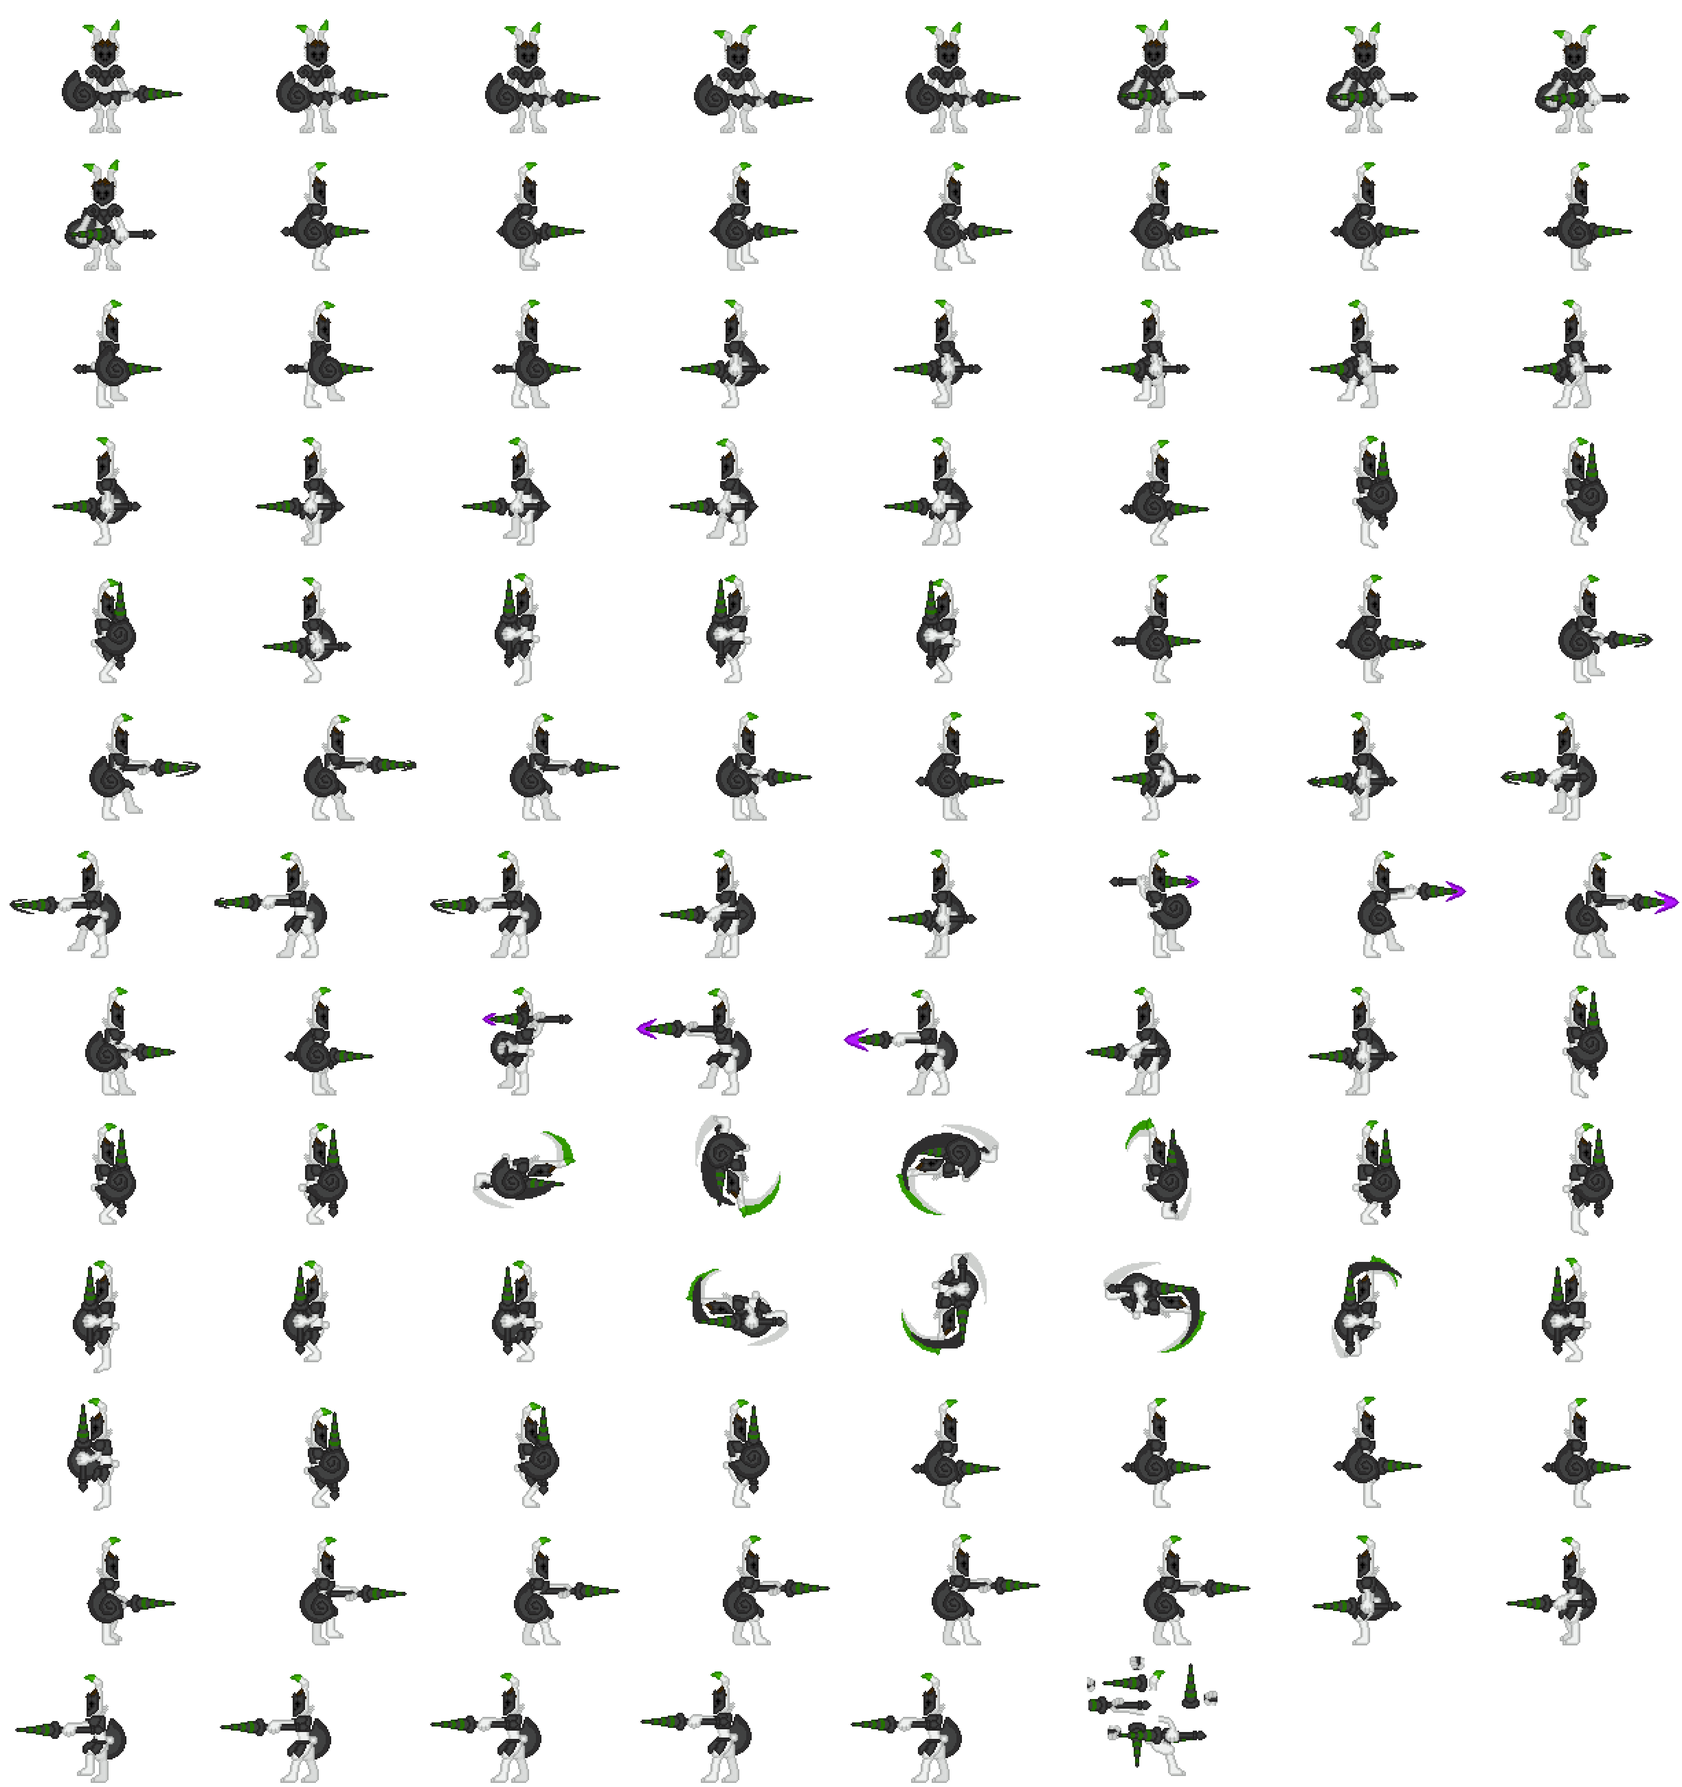
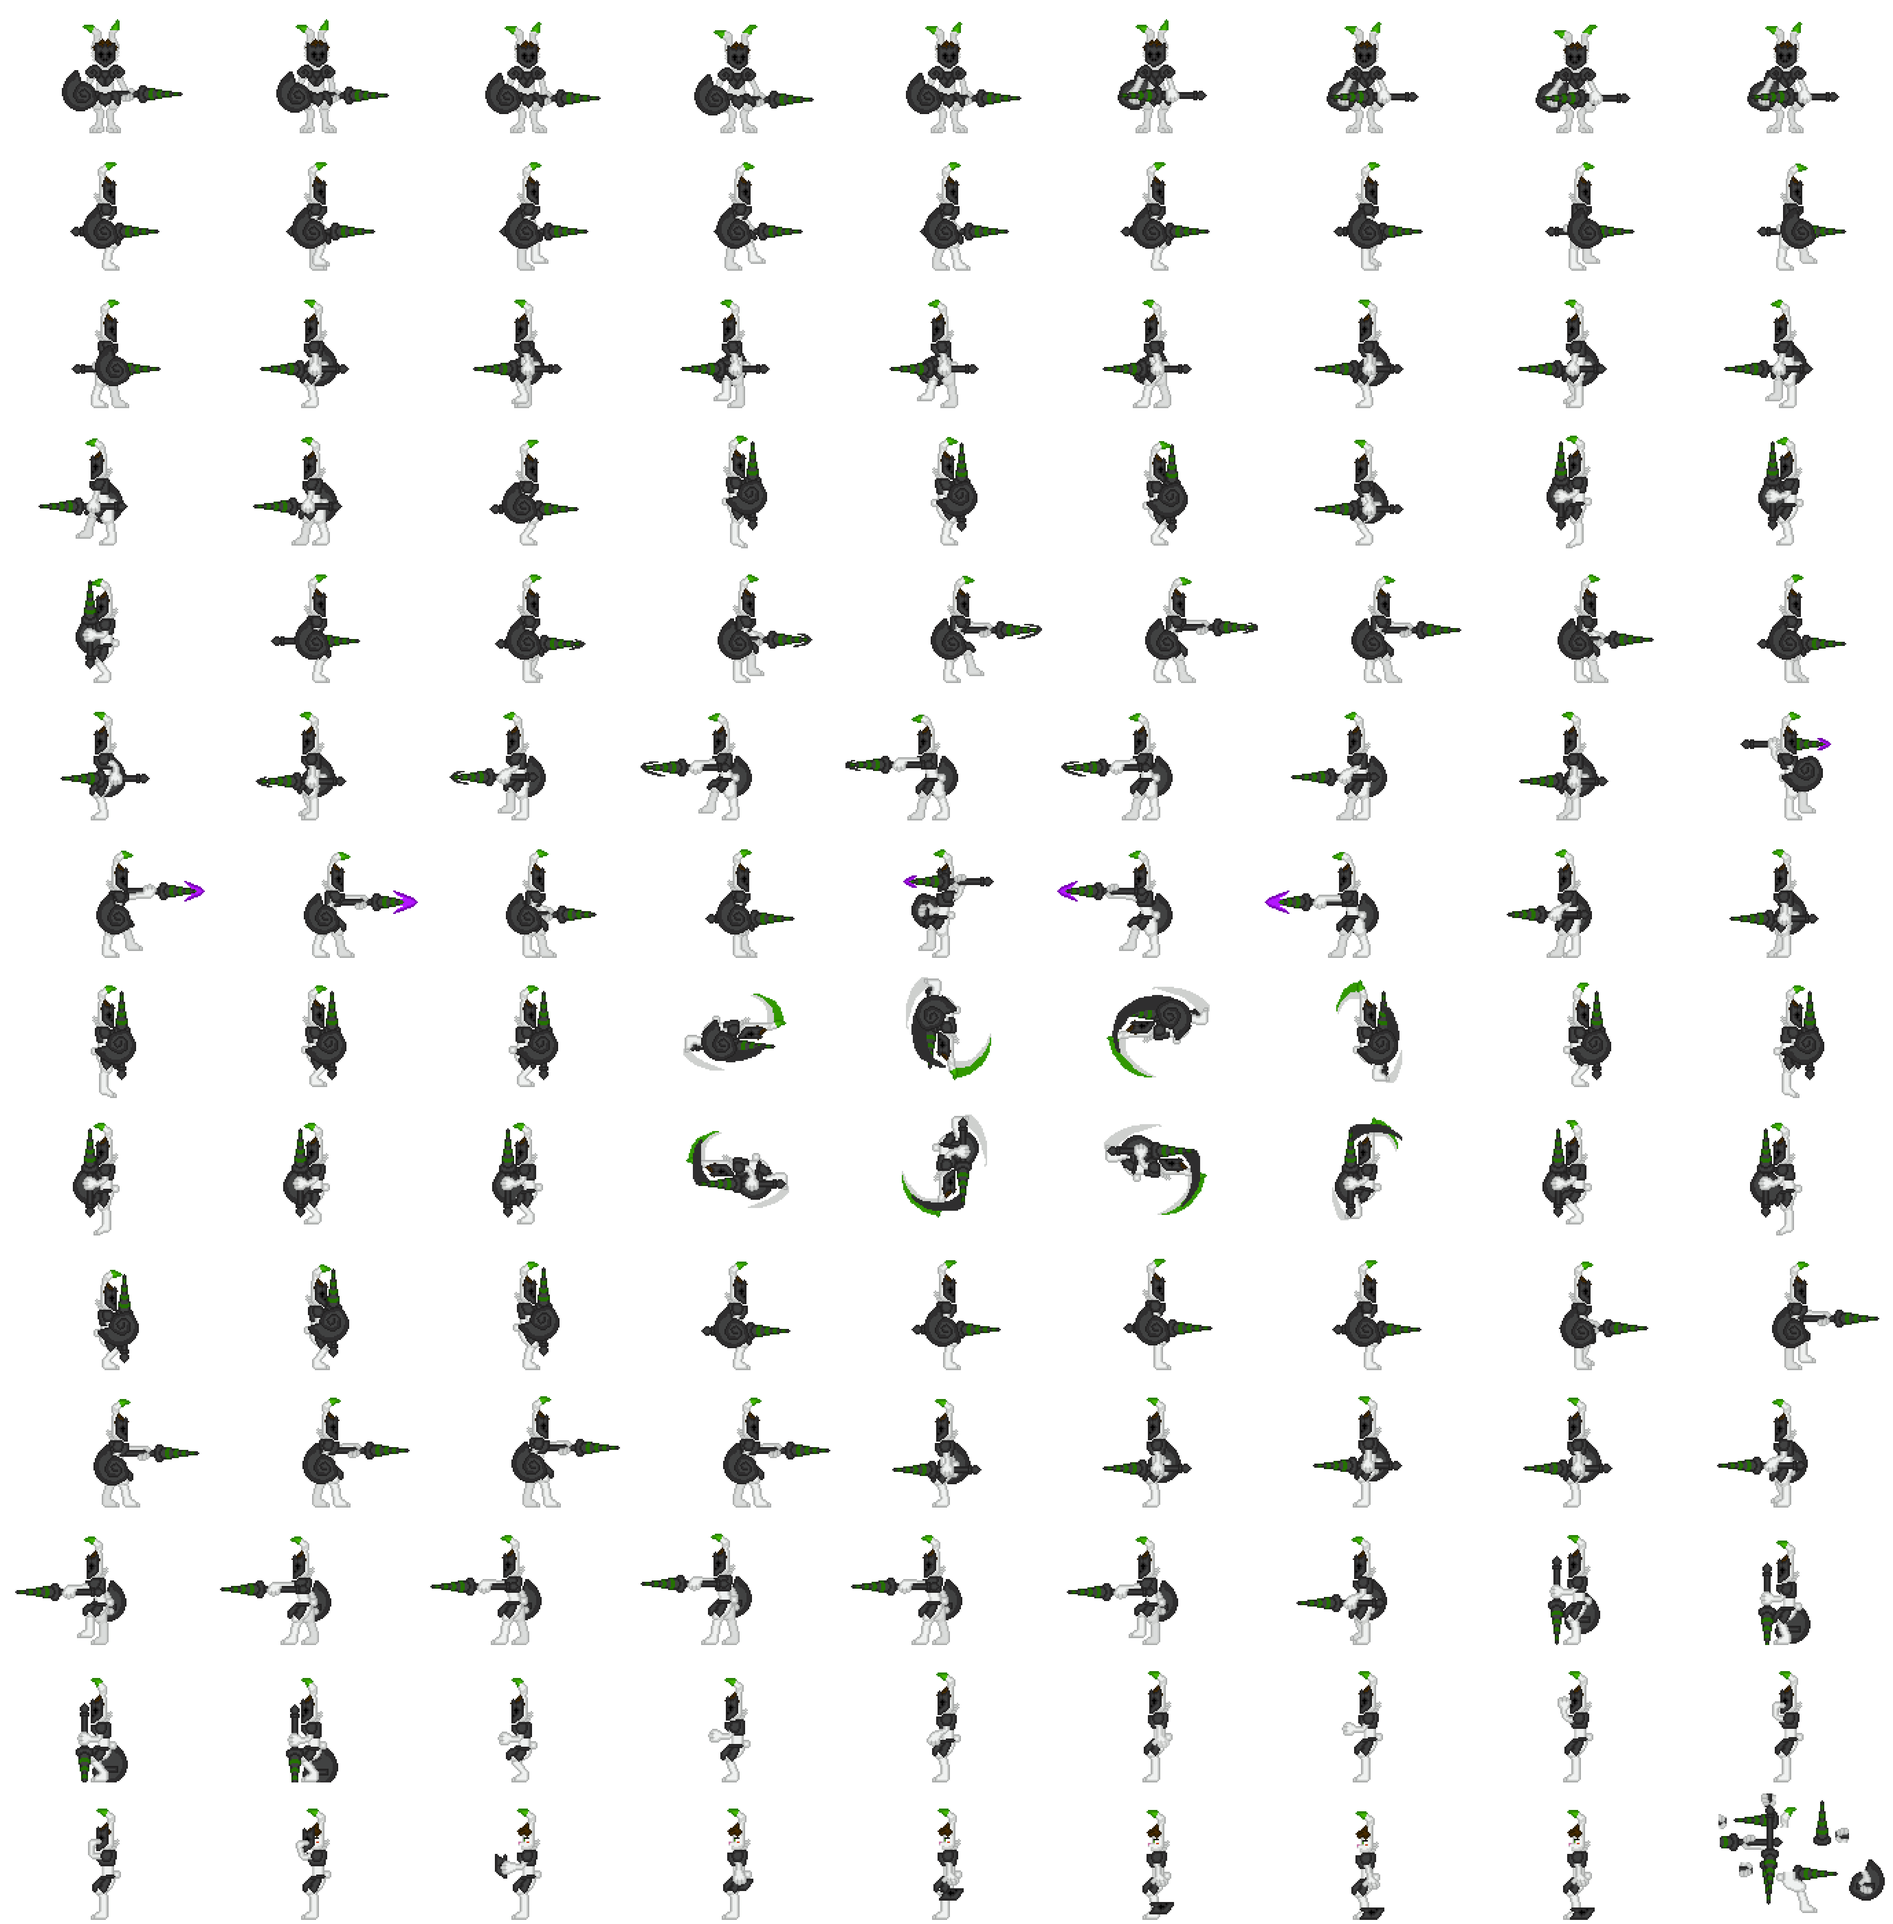
saving progress on nectar cutscene

diff --git a/scripts/npcScripts/nectar.js b/scripts/npcScripts/nectar.js
@@ -580,7 +580,7 @@ class nectar extends npc{
 
    }else if(this.moveNectarOffScreen === false){
     
-    if(this.x < 2700){
+    if(this.x < 3300){
 
       this.setVelocityX(200);
       this.anims.play('sideWalk',true);
@@ -588,12 +588,46 @@ class nectar extends npc{
 
        this.setVelocityX(0);
       this.moveNectarOffScreen = true;
-      this.scene.sceneTextBox.textInterupt = true;
       this.miloRemoveMask = false;
     }
     
    }else if(this.miloRemoveMask === false){
-    this.scene.Milo.anims.play('angleIdleLeft',true);
+
+    this.miloRemoveMask = true;
+    this.scene.Milo.anims.play('MenacingSpearLowerRight').once('animationcomplete', () => {
+
+      this.scene.Milo.anims.play('dropSpearAndShield').once('animationcomplete', () => {
+
+
+        this.spear = this.scene.add.sprite(this.scene.Milo.x-13,this.scene.Milo.y+19, "miloProps");
+        this.spear.anims.create({ key: 'idle', frames: this.anims.generateFrameNames('miloProps', { start: 0, end: 0 }), frameRate: 7, repeat: -1 });
+        this.spear.anims.play("idle", true);
+        this.spear.setScale(1/3);
+        this.spear.setDepth(1);
+
+        this.shield = this.scene.add.sprite(this.scene.Milo.x+3,this.scene.Milo.y+19, "miloProps");
+        this.shield.anims.create({ key: 'idle', frames: this.anims.generateFrameNames('miloProps', { start: 1, end: 1 }), frameRate: 7, repeat: -1 });
+        this.shield.anims.play("idle", true);
+        this.shield.setScale(1/3);
+        this.shield.setDepth(1);
+         
+        this.scene.Milo.setDepth(7);
+
+        this.scene.Milo.anims.play('dropMask').once('animationcomplete', () => {
+
+          this.miloMask = this.scene.add.sprite(this.scene.Milo.x,this.scene.Milo.y, "miloProps");
+          this.miloMask = this.miloMask.anims.create({key: 'mask',frames: this.anims.generateFrameNames('miloProps', { start: 2, end: 2 }),frameRate: 1,repeat: 0});
+          this.miloMask.anims.play("shield");
+          this.miloMask.setScale(1/3);
+          this.miloMask.setDepth(5); 
+
+          this.scene.Milo.anims.play('dropMaskEnd',true);
+        });
+      });
+  });
+
+    
+   
    }
   }
   //overwrites base npc classes function with flagging logic specific to nectar.
@@ -1304,6 +1338,7 @@ class nectar extends npc{
                    this.scene.sceneTextBox.textInterupt = true;
 
                   this.playerCloths = this.scene.add.sprite(this.x+60,this.y+89, "playerClothsProp");
+                  this.playerCloths.flipX = true;
                   this.playerCloths.setScale(1/3);
                   this.playerCloths.setDepth(5);
 
@@ -1339,7 +1374,7 @@ class nectar extends npc{
             
               this.scene.moveFunctionActive = true;
               this.moveNectarOffScreen = false;
-              this.scene.sceneTextBox.textInterupt = false;
+              this.scene.sceneTextBox.textInterupt = true;
 
               this.scene.mycamera.startFollow(this.playerCloths);
               this.scene.cameras.main.zoom = 2;

diff --git a/scripts/npcScripts/milo.js b/scripts/npcScripts/milo.js
@@ -32,8 +32,13 @@ class milo extends npc{
       this.anims.create({key: 'MenacingSpearRaise',frames: this.anims.generateFrameNames('miloMaskedAndArmed', { start: 88, end: 89 }),frameRate: 5,repeat: 0});
       this.anims.create({key: 'MenacingSpearHold',frames: this.anims.generateFrameNames('miloMaskedAndArmed', { start: 90, end: 93 }),frameRate: 7,repeat: -1});
       
-      this.anims.create({key: 'MenacingSpearRaiseRight',frames: this.anims.generateFrameNames('miloMaskedAndArmed', { start: 94, end: 96 }),frameRate: 5,repeat: 0});
-      this.anims.create({key: 'MenacingSpearHoldRight',frames: this.anims.generateFrameNames('miloMaskedAndArmed', { start: 97, end: 100 }),frameRate: 7,repeat: -1});
+      this.anims.create({key: 'standThereRight',frames: this.anims.generateFrameNames('miloMaskedAndArmed', { start: 94, end: 97 }),frameRate: 7,repeat: -1});
+      this.anims.create({key: 'MenacingSpearRaiseRight',frames: this.anims.generateFrameNames('miloMaskedAndArmed', { start: 98, end: 99 }),frameRate: 5,repeat: 0});
+      this.anims.create({key: 'MenacingSpearHoldRight',frames: this.anims.generateFrameNames('miloMaskedAndArmed', { start: 100, end: 103 }),frameRate: 7,repeat: -1});
+      this.anims.create({key: 'MenacingSpearLowerRight',frames: this.anims.generateFrameNames('miloMaskedAndArmed', { start: 104, end: 105 }),frameRate: 5,repeat: 0});
+      this.anims.create({key: 'dropSpearAndShield',frames: this.anims.generateFrameNames('miloMaskedAndArmed', { start: 106, end: 109 }),frameRate: 5,repeat: 0});
+      this.anims.create({key: 'dropMask',frames: this.anims.generateFrameNames('miloMaskedAndArmed', { start: 110, end: 123 }),frameRate: 5,repeat: 0});
+      this.anims.create({key: 'dropMaskEnd',frames: this.anims.generateFrameNames('miloMaskedAndArmed', { start: 124, end: 124 }),frameRate: 5,repeat: 0});
       
       //makes a key promptsa object to be displayed to the user
        this.npcKeyPrompts = new keyPrompts(scene, xPos, yPos + 60,'keyPrompts');

diff --git a/scripts/levelScripts/lockwoodLevels/LockwoodBridges.js b/scripts/levelScripts/lockwoodLevels/LockwoodBridges.js
@@ -55,6 +55,10 @@ class LockwoodBridges extends defaultScene {
       this.load.spritesheet("milo" , "assets/npcs/milo.png" , {frameWidth: 429 , frameHeight: 300 });
       this.load.spritesheet("miloMaskedAndArmed" , "assets/npcs/miloMaskedAndArmed.png" , {frameWidth: 459 , frameHeight: 300 });
       this.load.spritesheet("miloEmots" , "assets/hudElements/miloEmots.png" , {frameWidth: 111 , frameHeight: 117 });
+
+      this.load.spritesheet('miloProps', 'assets/gameObjects/miloProps.png',{frameWidth: 78 , frameHeight: 171});
+
+
       this.load.spritesheet("nectarEmots" , "assets/hudElements/nectarEmots.png" , {frameWidth: 171 , frameHeight: 147 });
 
       //note nectars sprites are loaded in g6enemypreload.
@@ -160,7 +164,7 @@ class LockwoodBridges extends defaultScene {
       //define barriers whee enemys cannot go.
       this.setUpEnemyBarriers();
       this.initBarrier(1716,728-30,38,540);
-      this.initBarrier(2641,728-30,38,540);
+      this.initBarrier(2600,728-30,38,540);
 
       //this sets up the text box which will be used by the signs to display text.
       this.setUpTextBox();

diff --git a/scripts/enemyScripts/bosses/nectarBoss.js b/scripts/enemyScripts/bosses/nectarBoss.js
@@ -187,7 +187,7 @@ class nectarBoss extends enemy {
             //set up player barries for the fight
             this.scene.setUpPlayerBarriers();
             this.leftBarrier = this.scene.initPlayerBarrier(1716,728-30,38,540);
-            this.rightBarrier = this.scene.initPlayerBarrier(2641,728-30,38,540);
+            this.rightBarrier = this.scene.initPlayerBarrier(2600,728-30,38,540);
 
             this.digestionTimer.visible = true;
             this.digestionTimer.anims.play('stomachOpen').once('animationcomplete', () => {
